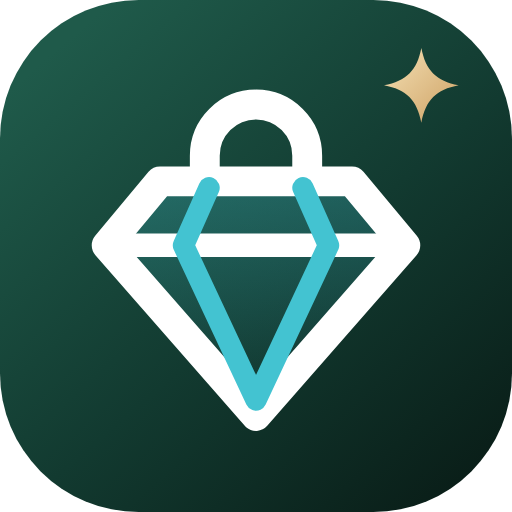
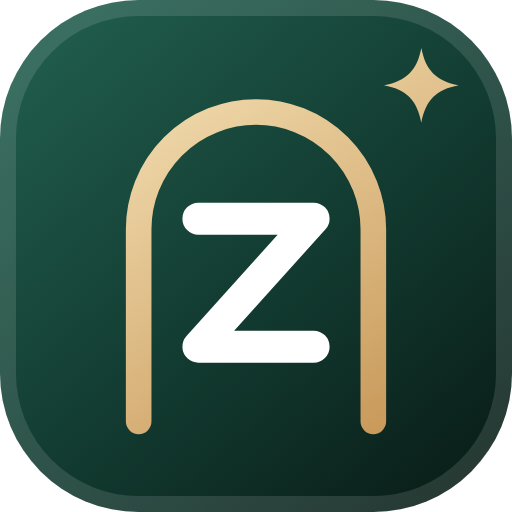
Changing the footer and making auto deploy on aws server 121

diff --git a/e-shop-frontend/src/assets/css/style.scss b/e-shop-frontend/src/assets/css/style.scss
@@ -426,12 +426,13 @@ a:hover > .brand-logo .brand-mark { transform: rotate(-6deg) scale(1.04); }
     display: flex; flex-direction: column; line-height: 1;
     strong { color: #13291f; font-family: "Outfit", "Segoe UI", Arial, sans-serif; font-size: 1.6rem; font-weight: 800; letter-spacing: -.04em; white-space: nowrap; }
     strong span { color: #2f9aa6; font-weight: 500; letter-spacing: -.03em; }
-    strong i { display: inline-block; margin: 0 4px 0 3px; color: #c99a5b; font-size: .38em; font-style: normal; vertical-align: .62em; }
+    strong i { margin-left: 2px; color: #b8874c; font-size: .5em; font-style: normal; font-weight: 600; letter-spacing: 0; }
     small { margin-top: 5px; color: #8a7a5e; font: 700 .58rem/1 Arial, sans-serif; letter-spacing: .2em; text-transform: uppercase; white-space: nowrap; }
 }
 .brand-logo--light .brand-logo-text {
     strong { color: #fff; }
     strong span { color: #9fd9df; }
+    strong i { color: #e0b77d; }
     small { color: #d3b894; }
 }
 .store-footer-brand { display: inline-block; margin-bottom: 18px; text-decoration: none; }
@@ -1109,27 +1110,41 @@ a:hover > .brand-logo .brand-mark { transform: rotate(-6deg) scale(1.04); }
 
 /* ---------- Shop listing ---------- */
 .sp-hero {
-    position: relative; overflow: hidden; padding: 22px 0 26px;
-    background: radial-gradient(ellipse at 88% 0%, rgba(67, 195, 209, .14), transparent 40%), radial-gradient(ellipse at 10% 100%, rgba(189, 132, 93, .1), transparent 40%), linear-gradient(115deg, #f6f5ef 0%, #fbfaf7 55%, #edf2eb 100%);
-    &::after { position: absolute; right: -90px; bottom: -190px; width: 420px; height: 420px; border: 1px solid rgba(41, 75, 61, .08); border-radius: 50%; box-shadow: 0 0 0 36px rgba(41, 75, 61, .025), 0 0 0 72px rgba(41, 75, 61, .018); content: ""; pointer-events: none; }
+    position: relative; overflow: hidden; border-bottom: 1px solid #e9ede8; padding: 26px 0 30px;
+    background: radial-gradient(ellipse at 88% 0%, rgba(67, 195, 209, .13), transparent 42%), radial-gradient(ellipse at 6% 100%, rgba(201, 154, 91, .12), transparent 42%), linear-gradient(115deg, #f6f5ef 0%, #fbfaf7 55%, #edf2eb 100%);
+    &::before { position: absolute; top: 0; left: 50%; width: min(1460px, 92%); height: 1px; background: linear-gradient(90deg, transparent, rgba(201, 154, 91, .55), transparent); content: ""; transform: translateX(-50%); }
     .container { position: relative; z-index: 1; }
 }
+/* Oversized ghost word behind the heading, e.g. "SHOP" or the collection name. */
+.sp-hero-mark { position: absolute; right: -1vw; bottom: -.18em; color: transparent; font-family: "Outfit", sans-serif; font-size: clamp(7rem, 17vw, 15rem); font-weight: 800; line-height: 1; letter-spacing: -.05em; text-transform: uppercase; white-space: nowrap; -webkit-text-stroke: 1px rgba(24, 55, 46, .08); pointer-events: none; user-select: none; }
 .sp-hero-copy {
-    display: flex; align-items: flex-end; justify-content: space-between; gap: 20px; margin: 18px 0 22px;
-    h1 { margin: 6px 0 6px; color: #13291f; font-size: clamp(2.2rem, 4.2vw, 3.4rem); font-weight: 700; line-height: 1; letter-spacing: -.045em; }
-    h1 span { color: #43c3d1; }
-    p { max-width: 520px; margin: 0; color: #66756c; font-size: 1.05rem; }
+    display: flex; align-items: flex-end; justify-content: space-between; gap: 28px; margin: 26px 0 28px;
+    h1 { margin: 14px 0 12px; color: #0f241d; font-family: "Outfit", sans-serif; font-size: clamp(2.4rem, 4.6vw, 3.9rem); font-weight: 800; line-height: 1; letter-spacing: -.045em; }
+    h1 em { color: #2f9aa6; font-style: normal; background: linear-gradient(transparent 70%, rgba(67, 195, 209, .2) 70%); }
+    h1 em.is-dot { color: #43c3d1; background: none; }
+    p { max-width: 540px; margin: 0; color: #5f6e66; font-size: 1.08rem; line-height: 1.6; }
 }
-.sp-hero-count {
-    display: flex; flex-shrink: 0; flex-direction: column; align-items: center; justify-content: center; width: 96px; height: 96px; border: 1px solid rgba(24, 55, 46, .1); border-radius: 50%; background: rgba(255, 255, 255, .7); box-shadow: 0 10px 26px rgba(24, 47, 37, .06);
-    strong { color: #18372e; font-size: 1.8rem; line-height: 1; }
-    span { margin-top: 3px; color: #7d8a82; font: 700 .58rem/1 Arial, sans-serif; letter-spacing: .14em; text-transform: uppercase; }
+.sp-hero-eyebrow { display: inline-flex; align-items: center; gap: 12px; color: #a87550; font: 700 .68rem/1.4 Arial, sans-serif; letter-spacing: .22em; text-transform: uppercase;
+    i { width: 30px; height: 1px; background: currentColor; }
 }
-.sp-pills { display: flex; gap: 8px; overflow-x: auto; padding-bottom: 2px; scrollbar-width: none; }
+.sp-hero-stats {
+    display: flex; flex-shrink: 0; margin: 0; border: 1px solid rgba(24, 55, 46, .1); border-radius: 22px; padding: 18px 6px; background: rgba(255, 255, 255, .72); box-shadow: 0 18px 40px rgba(24, 47, 37, .08); backdrop-filter: blur(10px);
+    div { min-width: 104px; padding: 0 22px; text-align: center; }
+    div + div { border-left: 1px solid rgba(24, 55, 46, .1); }
+    dt { color: #0f241d; font-family: "Outfit", sans-serif; font-size: 1.7rem; font-weight: 800; line-height: 1.05; letter-spacing: -.03em; }
+    dd { margin: 6px 0 0; color: #7d8a82; font: 700 .6rem/1 Arial, sans-serif; letter-spacing: .16em; text-transform: uppercase; }
+}
+.sp-pills-bar { display: inline-flex; max-width: 100%; align-items: center; gap: 6px; border: 1px solid rgba(24, 55, 46, .1); border-radius: 40px; padding: 5px; background: rgba(255, 255, 255, .7); box-shadow: 0 10px 26px rgba(24, 47, 37, .06); backdrop-filter: blur(10px); }
+.sp-pills-label { flex-shrink: 0; padding: 0 10px 0 14px; color: #8b968f; font: 700 .62rem/1 Arial, sans-serif; letter-spacing: .18em; text-transform: uppercase; }
+.sp-pills { display: flex; min-width: 0; gap: 4px; overflow-x: auto; scrollbar-width: none; }
 .sp-pill {
-    flex-shrink: 0; border: 1px solid rgba(24, 55, 46, .14); border-radius: 30px; padding: 7px 18px; color: #2f4a3f; background: rgba(255, 255, 255, .75); font-weight: 600; text-decoration: none; transition: all .18s ease;
-    &:hover { border-color: #18372e; color: #18372e; background: #fff; }
-    &.is-active { border-color: #18372e; color: #fff; background: #18372e; box-shadow: 0 6px 16px rgba(24, 55, 46, .2); }
+    position: relative; flex-shrink: 0; border-radius: 30px; padding: 9px 20px; color: #2f4a3f; font-weight: 600; text-decoration: none; transition: all .2s ease;
+    &:hover { color: #0f241d; background: rgba(24, 55, 46, .06); }
+    &.is-active { color: #fff; background: linear-gradient(135deg, #234a3e, #13291f); box-shadow: inset 0 1px 0 rgba(255, 255, 255, .14); }
+    &.is-active::before { display: inline-block; width: 6px; height: 6px; margin: 0 8px 2px 0; border-radius: 50%; background: #e0b77d; content: ""; vertical-align: middle; }
+}
+@media (max-width: 991.98px) {
+    .sp-hero-copy { align-items: flex-start; flex-direction: column; gap: 22px; }
 }
 
 .sp-filter-toggle { display: none; }
@@ -1236,9 +1251,11 @@ a:hover > .brand-logo .brand-mark { transform: rotate(-6deg) scale(1.04); }
 }
 
 @media (max-width: 575.98px) {
-    .sp-hero-copy { align-items: flex-start; }
-    .sp-hero-count { width: 74px; height: 74px; }
-    .sp-hero-count strong { font-size: 1.4rem; }
+    .sp-hero-stats { width: 100%; padding: 14px 0; }
+    .sp-hero-stats div { min-width: 0; flex: 1; padding: 0 10px; }
+    .sp-hero-stats dt { font-size: 1.35rem; }
+    .sp-pills-label { display: none; }
+    .sp-pills-bar { display: flex; }
     .sp-toolbar { align-items: stretch; flex-direction: column; padding: 12px; }
     .sp-sort select { flex: 1; }
     .sp-card-media, .sp-skeleton span { border-radius: 14px; }
@@ -1382,9 +1399,9 @@ a:hover > .brand-logo .brand-mark { transform: rotate(-6deg) scale(1.04); }
     ul { display: grid; gap: 18px; margin: 0; padding: 0; list-style: none; }
     li { display: flex; gap: 12px; }
     li > span { color: #d3b894; }
-    strong, small { display: block; }
-    strong { font-size: .95rem; }
-    small { margin-top: 2px; color: #a9bbb0; font-size: .82rem; }
+    li strong, li small { display: block; }
+    li strong { font-size: .95rem; }
+    li small { margin-top: 2px; color: #a9bbb0; font-size: .82rem; }
 }
 .customer-auth-aside-foot { margin: auto 0 0; padding-top: 32px; color: #829b8d; font: 700 .6rem/1 Arial, sans-serif; letter-spacing: .16em; text-transform: uppercase; }
 

diff --git a/e-shop-frontend/src/components/common/BrandLogo.jsx b/e-shop-frontend/src/components/common/BrandLogo.jsx
@@ -1,11 +1,11 @@
 import React, { useId } from "react";
 
-const BRAND_NAME = "Elite Shop";
+const BRAND_NAME = "Elitezaar";
 const BRAND_SLOGAN = "Everyday, elevated.";
 
 /**
- * The Elite Shop mark: a faceted gem that doubles as a shopping bag (handle on top),
- * on a deep-emerald tile with a gold sparkle. Keep in sync with public/favicon.svg.
+ * The Elitezaar mark: a bold "Z" framed by a gold shopfront arch (the doorway to the bazaar),
+ * on a deep-emerald tile with a gold sparkle. Keep in sync with public/favicon.svg and public/brand/.
  */
 export const BrandMark = ({ size = 40, className = "" }) => {
   const id = useId().replace(/:/g, "");
@@ -17,24 +17,17 @@ export const BrandMark = ({ size = 40, className = "" }) => {
           <stop offset=".55" stopColor="#123a30" />
           <stop offset="1" stopColor="#0a1f19" />
         </linearGradient>
-        <linearGradient id={`${id}-gold`} x1="36" y1="4" x2="44" y2="12" gradientUnits="userSpaceOnUse">
+        <linearGradient id={`${id}-gold`} x1="12" y1="4" x2="36" y2="40" gradientUnits="userSpaceOnUse">
           <stop offset="0" stopColor="#f6e3b8" />
           <stop offset="1" stopColor="#c99a5b" />
-        </linearGradient>
-        <linearGradient id={`${id}-gem`} x1="24" y1="17" x2="24" y2="39" gradientUnits="userSpaceOnUse">
-          <stop offset="0" stopColor="#43c3d1" stopOpacity=".28" />
-          <stop offset="1" stopColor="#43c3d1" stopOpacity="0" />
         </linearGradient>
       </defs>
       <rect width="48" height="48" rx="13" fill={`url(#${id}-tile)`} />
       <rect x=".75" y=".75" width="46.5" height="46.5" rx="12.25" fill="none" stroke="#fff" strokeOpacity=".12" strokeWidth="1.5" />
-      {/* bag handle */}
-      <path d="M19.2 17v-2.4a4.8 4.8 0 0 1 9.6 0V17" fill="none" stroke="#fff" strokeWidth="2.4" strokeLinecap="round" />
-      {/* gem body */}
-      <path d="M15 17h18l5 6-14 16-14-16 5-6Z" fill={`url(#${id}-gem)`} stroke="#fff" strokeWidth="2.4" strokeLinejoin="round" />
-      <path d="M10.6 23h26.8" stroke="#fff" strokeWidth="1.8" strokeLinecap="round" />
-      {/* facets */}
-      <path d="M17.2 23 24 37.5 30.8 23M19.6 17.6 17.2 23M28.4 17.6 30.8 23" fill="none" stroke="#43c3d1" strokeWidth="1.7" strokeLinecap="round" strokeLinejoin="round" />
+      {/* shopfront arch */}
+      <path d="M13 39.5V21.5a11 11 0 0 1 22 0v18" fill="none" stroke={`url(#${id}-gold)`} strokeWidth="2.4" strokeLinecap="round" strokeLinejoin="round" />
+      {/* Z */}
+      <path d="M18.6 20.5h10.8L18.6 32.5h10.8" fill="none" stroke="#fff" strokeWidth="3" strokeLinecap="round" strokeLinejoin="round" />
       {/* sparkle */}
       <path d="M39.5 4.5c.4 2.1 1.4 3.1 3.5 3.5-2.1.4-3.1 1.4-3.5 3.5-.4-2.1-1.4-3.1-3.5-3.5 2.1-.4 3.1-1.4 3.5-3.5Z" fill={`url(#${id}-gold)`} />
     </svg>
@@ -46,7 +39,7 @@ const BrandLogo = ({ tone = "dark", size = 42, showSlogan = true, className = ""
   <span className={`brand-logo brand-logo--${tone} ${className}`}>
     <BrandMark size={size} />
     <span className="brand-logo-text">
-      <strong>Elite<i aria-hidden="true">◆</i><span>Shop</span></strong>
+      <strong>Elite<span>zaar</span><i>.com</i></strong>
       {showSlogan && <small>{BRAND_SLOGAN}</small>}
     </span>
   </span>

diff --git a/e-shop-frontend/src/components/common/Shop.jsx b/e-shop-frontend/src/components/common/Shop.jsx
@@ -118,6 +118,7 @@ const Shop = () => {
     <Layout>
       <main className="shop-page">
         <section className="sp-hero">
+          <span className="sp-hero-mark" aria-hidden="true">{activeCategory?.name || "Shop"}</span>
           <div className="container">
             <nav aria-label="Breadcrumb">
               <ol className="breadcrumb shop-breadcrumb mb-0">
@@ -130,18 +131,25 @@ const Shop = () => {
             </nav>
             <div className="sp-hero-copy">
               <div>
-                <span className="shop-eyebrow">{activeCategory ? "THE COLLECTION" : "SHOP ALL"}</span>
-                <h1>{activeCategory?.name || "Everyday, elevated"}</h1>
-                <p>{activeCategory ? `Considered ${activeCategory.name.toLowerCase()} pieces, picked to be worn on repeat.` : "Thoughtfully picked pieces across every collection."}</p>
+                <span className="sp-hero-eyebrow"><i aria-hidden="true" />{activeCategory ? "The collection" : "Shop all"}</span>
+                <h1>{activeCategory ? <>{activeCategory.name}<em className="is-dot">.</em></> : <>Everyday, <em>elevated.</em></>}</h1>
+                <p>{activeCategory ? `Considered ${activeCategory.name.toLowerCase()} pieces, picked to be worn on repeat.` : "Thoughtfully picked pieces across every collection — new arrivals added every week."}</p>
               </div>
-              <div className="sp-hero-count"><strong>{loading ? "—" : totalProducts}</strong><span>{totalProducts === 1 ? "piece" : "pieces"}</span></div>
+              <dl className="sp-hero-stats">
+                <div><dt>{loading ? "—" : totalProducts}</dt><dd>{totalProducts === 1 ? "Piece" : "Pieces"}</dd></div>
+                <div><dt>{loading ? "—" : brands.length}</dt><dd>{brands.length === 1 ? "Brand" : "Brands"}</dd></div>
+                <div><dt>{loading || !totalProducts ? "—" : `₹${Math.round(priceRange.min).toLocaleString("en-IN")}`}</dt><dd>Starting at</dd></div>
+              </dl>
             </div>
-            <nav className="sp-pills" aria-label="Collections">
-              <Link to={`/shop${queryString}`} className={`sp-pill${!categorySlug ? " is-active" : ""}`}>All</Link>
-              {categories.map((category) => (
-                <Link key={category.id} to={`/shop/${category.slug}${queryString}`} className={`sp-pill${categorySlug === category.slug ? " is-active" : ""}`}>{category.name}</Link>
-              ))}
-            </nav>
+            <div className="sp-pills-bar">
+              <span className="sp-pills-label">Collections</span>
+              <nav className="sp-pills" aria-label="Collections">
+                <Link to={`/shop${queryString}`} className={`sp-pill${!categorySlug ? " is-active" : ""}`}>All</Link>
+                {categories.map((category) => (
+                  <Link key={category.id} to={`/shop/${category.slug}${queryString}`} className={`sp-pill${categorySlug === category.slug ? " is-active" : ""}`}>{category.name}</Link>
+                ))}
+              </nav>
+            </div>
           </div>
         </section>
 

diff --git a/e-shop-frontend/src/components/common/Footer.jsx b/e-shop-frontend/src/components/common/Footer.jsx
@@ -23,7 +23,7 @@ const Footer = () => {
                     </div>
                     <div className="row g-5 py-5">
                         <div className="col-lg-4 col-md-6">
-                            <Link to="/" className="store-footer-brand" aria-label="Elite Shop home">
+                            <Link to="/" className="store-footer-brand" aria-label="Elitezaar home">
                                 <BrandLogo tone="light" size={46} />
                             </Link>
                             <p className="store-footer-description">A considered collection for everyday living. Find your next favourite, and make it yours.</p>
@@ -53,7 +53,7 @@ const Footer = () => {
                         <div className="col-lg-4 col-md-6">
                             <h2 className="store-footer-heading">A little note from us</h2>
                             <p className="store-footer-description">New finds, thoughtful details, and a fresh perspective—every now and then.</p>
-                            <a className="store-footer-email" href="mailto:support@eliteshop.com">support@eliteshop.com <span aria-hidden="true">↗</span></a>
+                            <a className="store-footer-email" href="mailto:support@elitezaar.com">support@elitezaar.com <span aria-hidden="true">↗</span></a>
                         </div>
                     </div>
                     <ul className="store-footer-perks">
@@ -67,11 +67,11 @@ const Footer = () => {
                     </ul>
                     <div className="store-footer-bottom">
                         <div className="store-footer-legal">
-                            <span>© {year} Elite Shop. All rights reserved.</span>
+                            <span>© {year} Elitezaar. All rights reserved.</span>
                             <nav aria-label="Footer">
                                 <Link to="/shop">Shop</Link>
                                 <Link to="/customer/orders">Track an order</Link>
-                                <a href="mailto:support@eliteshop.com">Support</a>
+                                <a href="mailto:support@elitezaar.com">Support</a>
                             </nav>
                         </div>
                         <div className="store-footer-pay">

diff --git a/e-shop-frontend/src/components/common/Home.jsx b/e-shop-frontend/src/components/common/Home.jsx
@@ -125,7 +125,7 @@ const Hero = ({ stats, spotlight, categories }) => {
             <div className="lp-hero-badge" aria-hidden="true"><Icon><path d="M12 3 4 6v6c0 4.5 3.4 8.3 8 9 4.6-.7 8-4.5 8-9V6l-8-3Z" /><path d="m9 12 2 2 4-4" /></Icon>Secure checkout</div>
             {spotlight && (
               <Link to={`/product/${spotlight.id}`} className="lp-spotlight">
-                <span className="lp-spotlight-image">{productImage(spotlight) ? <img src={productImage(spotlight)} alt="" /> : <span>ES</span>}</span>
+                <span className="lp-spotlight-image">{productImage(spotlight) ? <img src={productImage(spotlight)} alt="" /> : <span>EZ</span>}</span>
                 <span className="lp-spotlight-copy">
                   <small>{spotlight.is_featured === "yes" ? "Editor’s pick" : "Just in"}</small>
                   <strong>{spotlight.title}</strong>
@@ -279,7 +279,7 @@ const SellerCta = () => (
         <div>
           <span className="lp-seller-badge">FOR SELLERS</span>
           <h2>Have something worth selling?</h2>
-          <p>Open your Elite Shop store in under a minute. List products, ship orders and track sales from your own seller dashboard.</p>
+          <p>Open your Elitezaar store in under a minute. List products, ship orders and track sales from your own seller dashboard.</p>
         </div>
         <div className="lp-seller-actions">
           <Link to="/vendor/register" className="btn lp-btn lp-btn-gold">Become a seller ↗</Link>

diff --git a/e-shop-frontend/src/components/customer/CustomerRegister.jsx b/e-shop-frontend/src/components/customer/CustomerRegister.jsx
@@ -53,7 +53,7 @@ const CustomerRegister = () => {
       if (response.status === 429) throw new Error("Too many attempts. Please wait a minute and try again.");
       if (!response.ok) throw new Error(result.message || "Unable to create your account.");
       login(result);
-      toast.success(`Welcome to Elite Shop, ${result.user.name.split(" ")[0]}!`);
+      toast.success(`Welcome to Elitezaar, ${result.user.name.split(" ")[0]}!`);
       navigate(redirectTo, { replace: true });
     } catch (requestError) {
       setError(requestError instanceof TypeError ? "Cannot reach the store right now. Please try again shortly." : requestError.message);
@@ -71,7 +71,7 @@ const CustomerRegister = () => {
   );
 
   return (
-    <CustomerAuthShell wide eyebrow="Join Elite Shop" title="Create your account" subtitle="Just the essentials — and where we should deliver.">
+    <CustomerAuthShell wide eyebrow="Join Elitezaar" title="Create your account" subtitle="Just the essentials — and where we should deliver.">
       {error && <div className="alert alert-danger" role="alert">{error}</div>}
       <form onSubmit={handleSubmit}>
         <div className="customer-form-step"><span>1</span>About you</div>

diff --git a/e-shop-frontend/src/components/common/AccountMenu.jsx b/e-shop-frontend/src/components/common/AccountMenu.jsx
@@ -112,7 +112,7 @@ const AccountMenu = ({ onNavigate }) => {
             <div className="account-menu-hero account-menu-hero--guest">
               <span className="account-menu-avatar"><Icon name="user" /></span>
               <div className="account-menu-hero-copy">
-                <strong>Welcome to Elite Shop</strong>
+                <strong>Welcome to Elitezaar</strong>
                 <small>Sign in to track orders and check out faster.</small>
               </div>
             </div>
@@ -123,7 +123,7 @@ const AccountMenu = ({ onNavigate }) => {
             <div className="account-menu-section">For business</div>
             <div className="account-menu-list">
               {item(["Vendor login", "/vendor/login", "Manage your seller account", "box"])}
-              {item(["Become a vendor", "/vendor/register", "Sell with Elite Shop", "store"])}
+              {item(["Become a vendor", "/vendor/register", "Sell with Elitezaar", "store"])}
               {item(["Admin login", "/admin/login", "Store staff only", "shield"])}
             </div>
           </>

diff --git a/e-shop-frontend/src/App.jsx b/e-shop-frontend/src/App.jsx
@@ -33,6 +33,7 @@ import ResetPassword from './components/common/ResetPassword';
 import VendorRegister from './components/common/VendorRegister';
 import VendorDashboard from './components/admin/VendorDashboard';
 import { CartProvider } from './components/context/CartContext';
+import { StorefrontCategoriesProvider } from './components/common/useStorefrontCategories';
 import OrderConfirmation from './components/common/OrderConfirmation';
 import CustomerLogin from './components/customer/CustomerLogin';
 import CustomerRegister from './components/customer/CustomerRegister';
@@ -46,6 +47,7 @@ function App() {
   return (
     <AdminAuthProvider>
       <CartProvider>
+      <StorefrontCategoriesProvider>
       <BrowserRouter>
         <Routes>
           <Route path="/" element={<Home />} />
@@ -274,6 +276,7 @@ function App() {
         {/* Inside the router so toast messages can contain <Link>s. */}
         <ToastContainer />
       </BrowserRouter>
+      </StorefrontCategoriesProvider>
       </CartProvider>
     </AdminAuthProvider>
   );

diff --git a/e-shop-frontend/src/components/customer/CustomerLogin.jsx b/e-shop-frontend/src/components/customer/CustomerLogin.jsx
@@ -59,7 +59,7 @@ const CustomerLogin = () => {
         <div className="text-end mb-4"><Link to="/forgot-password" className="customer-link">Forgot password?</Link></div>
         <button type="submit" className="btn btn-primary btn-lg w-100 customer-submit" disabled={loading}>{loading ? "Signing in…" : "Sign in"}</button>
       </form>
-      <div className="customer-auth-divider"><span>New to Elite Shop?</span></div>
+      <div className="customer-auth-divider"><span>New to Elitezaar?</span></div>
       <Link to="/customer/register" state={location.state} className="btn btn-outline-secondary btn-lg w-100">Create an account</Link>
       <p className="customer-auth-footnote">Selling with us? <Link to="/vendor/login" className="customer-link">Vendor portal</Link></p>
     </CustomerAuthShell>

diff --git a/e-shop-frontend/src/components/admin/products/ManageProducts.jsx b/e-shop-frontend/src/components/admin/products/ManageProducts.jsx
@@ -78,7 +78,7 @@ const ManageProducts = ({ portal = "admin" }) => {
             <div className="d-flex flex-wrap justify-content-between align-items-center gap-3 mb-4">
               <div>
                 <h2 className="mb-1">{isVendor ? "My Products" : "Manage Products"}</h2>
-                <p className="text-muted mb-0">{isVendor ? "Create and maintain the products you sell on Elite Shop." : "Create and maintain your product catalog."}</p>
+                <p className="text-muted mb-0">{isVendor ? "Create and maintain the products you sell on Elitezaar." : "Create and maintain your product catalog."}</p>
               </div>
               <button className="btn btn-primary" onClick={() => navigate(config.createProductPath)}>Add product</button>
             </div>

diff --git a/e-shop-frontend/index.html b/e-shop-frontend/index.html
@@ -10,8 +10,8 @@
     <link rel="mask-icon" href="/favicon.svg" color="#123a30" />
     <meta name="theme-color" content="#123a30" />
     <meta name="viewport" content="width=device-width, initial-scale=1.0" />
-    <meta name="description" content="Elite Shop — thoughtfully picked products made to be loved on repeat. UPI, net banking, cash on delivery and live order tracking." />
-    <title>Elite Shop — Everyday, elevated.</title>
+    <meta name="description" content="Elitezaar — thoughtfully picked products made to be loved on repeat. UPI, net banking, cash on delivery and live order tracking." />
+    <title>Elitezaar — Everyday, elevated.</title>
   </head>
   <body>
     <div id="root"></div>

diff --git a/e-shop-frontend/src/components/common/Header.jsx b/e-shop-frontend/src/components/common/Header.jsx
@@ -25,7 +25,7 @@ const Header = () => {
       <header className="store-header sticky-top">
         <div className="container">
           <Navbar expand="lg" expanded={expanded} onToggle={setExpanded} className="store-navbar">
-            <Navbar.Brand as={Link} to="/" onClick={closeMenu} className="store-brand" aria-label="Elite Shop home">
+            <Navbar.Brand as={Link} to="/" onClick={closeMenu} className="store-brand" aria-label="Elitezaar home">
               <BrandLogo />
             </Navbar.Brand>
             <Navbar.Toggle aria-controls="store-nav" aria-label="Toggle navigation" />
